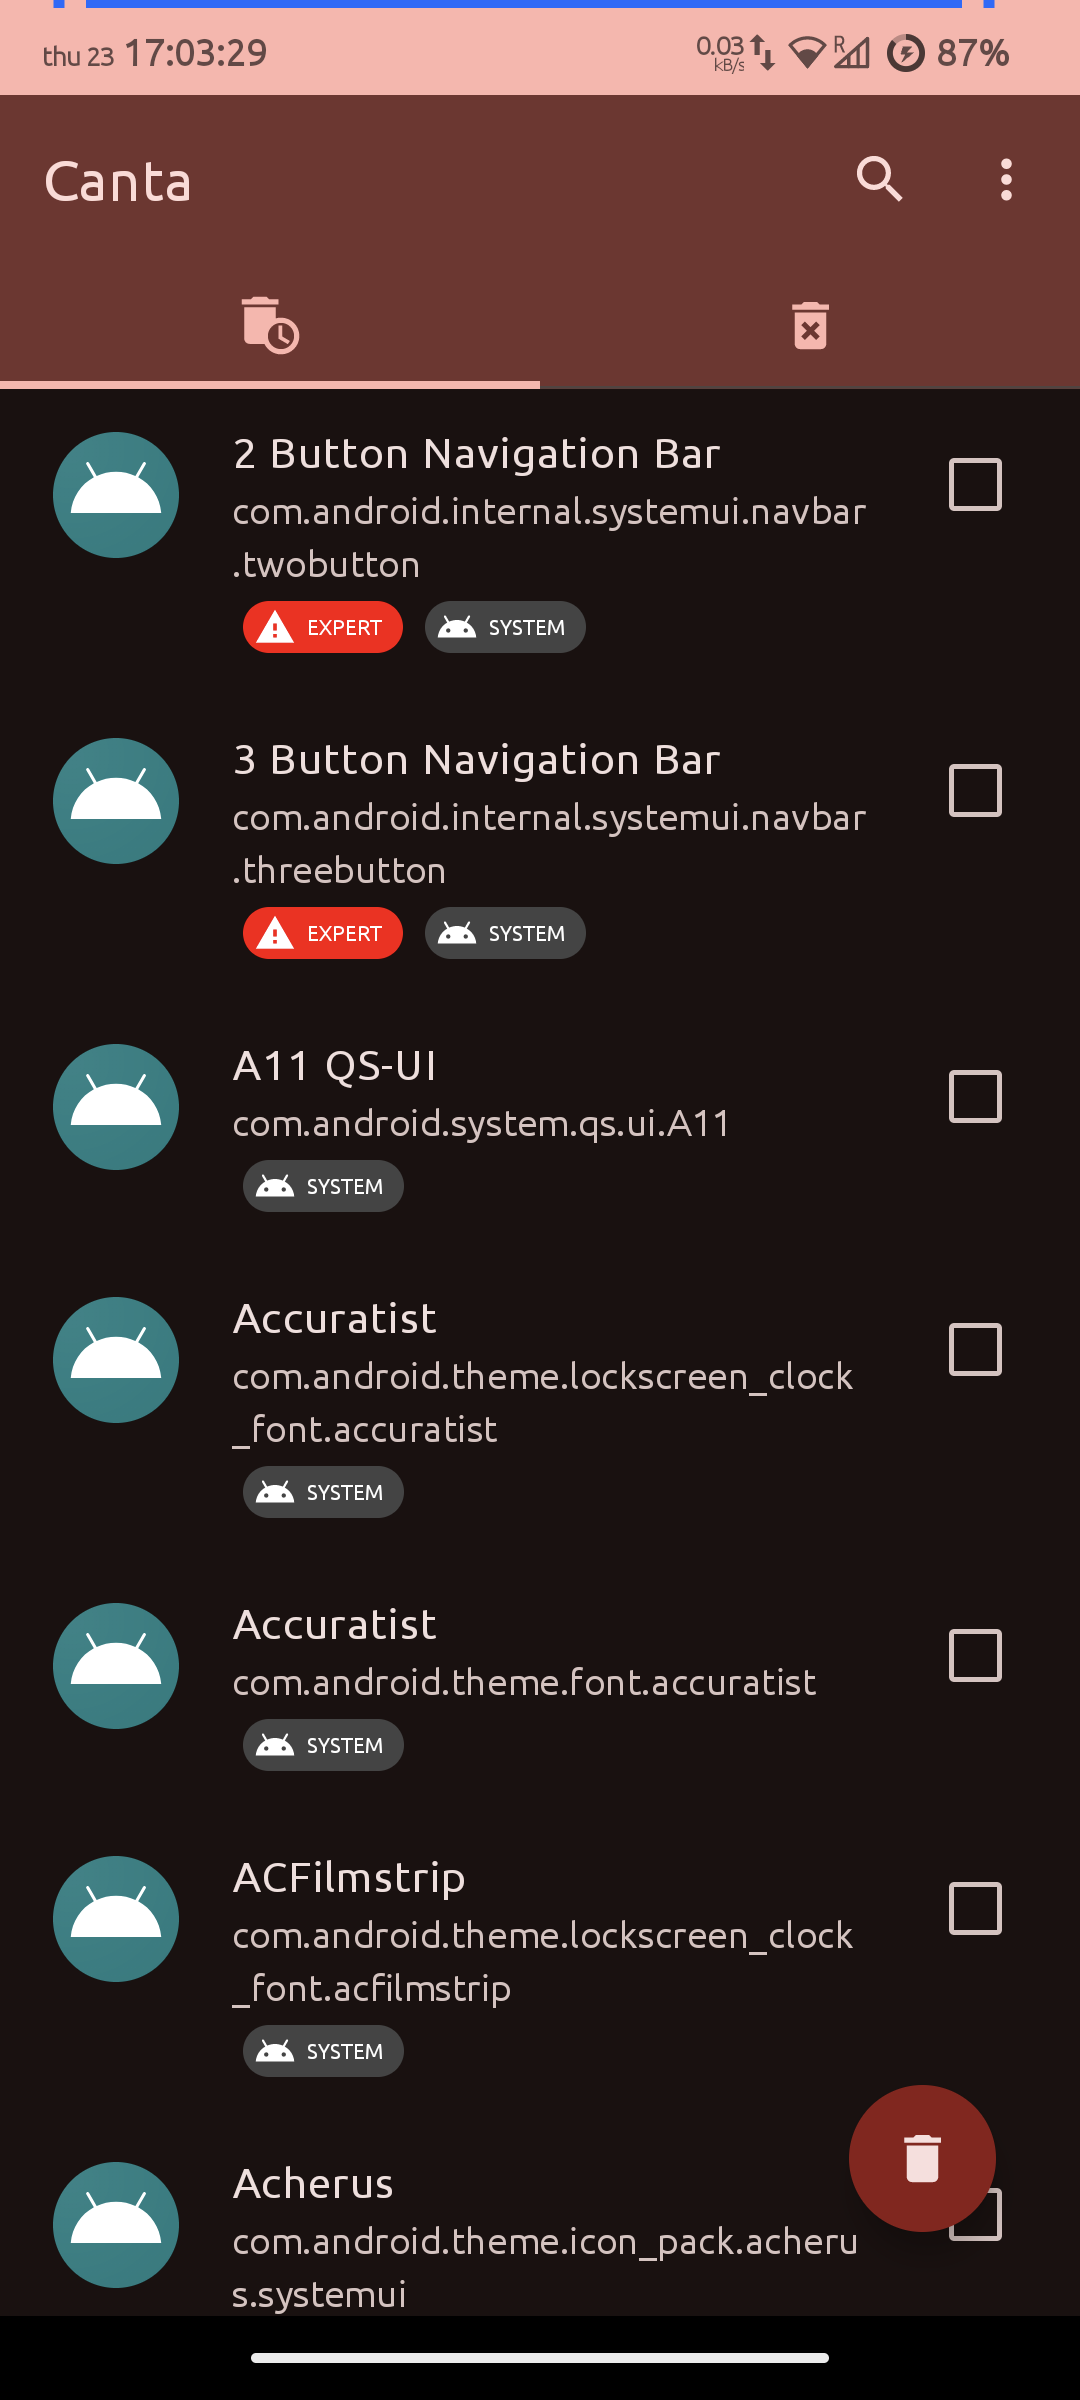
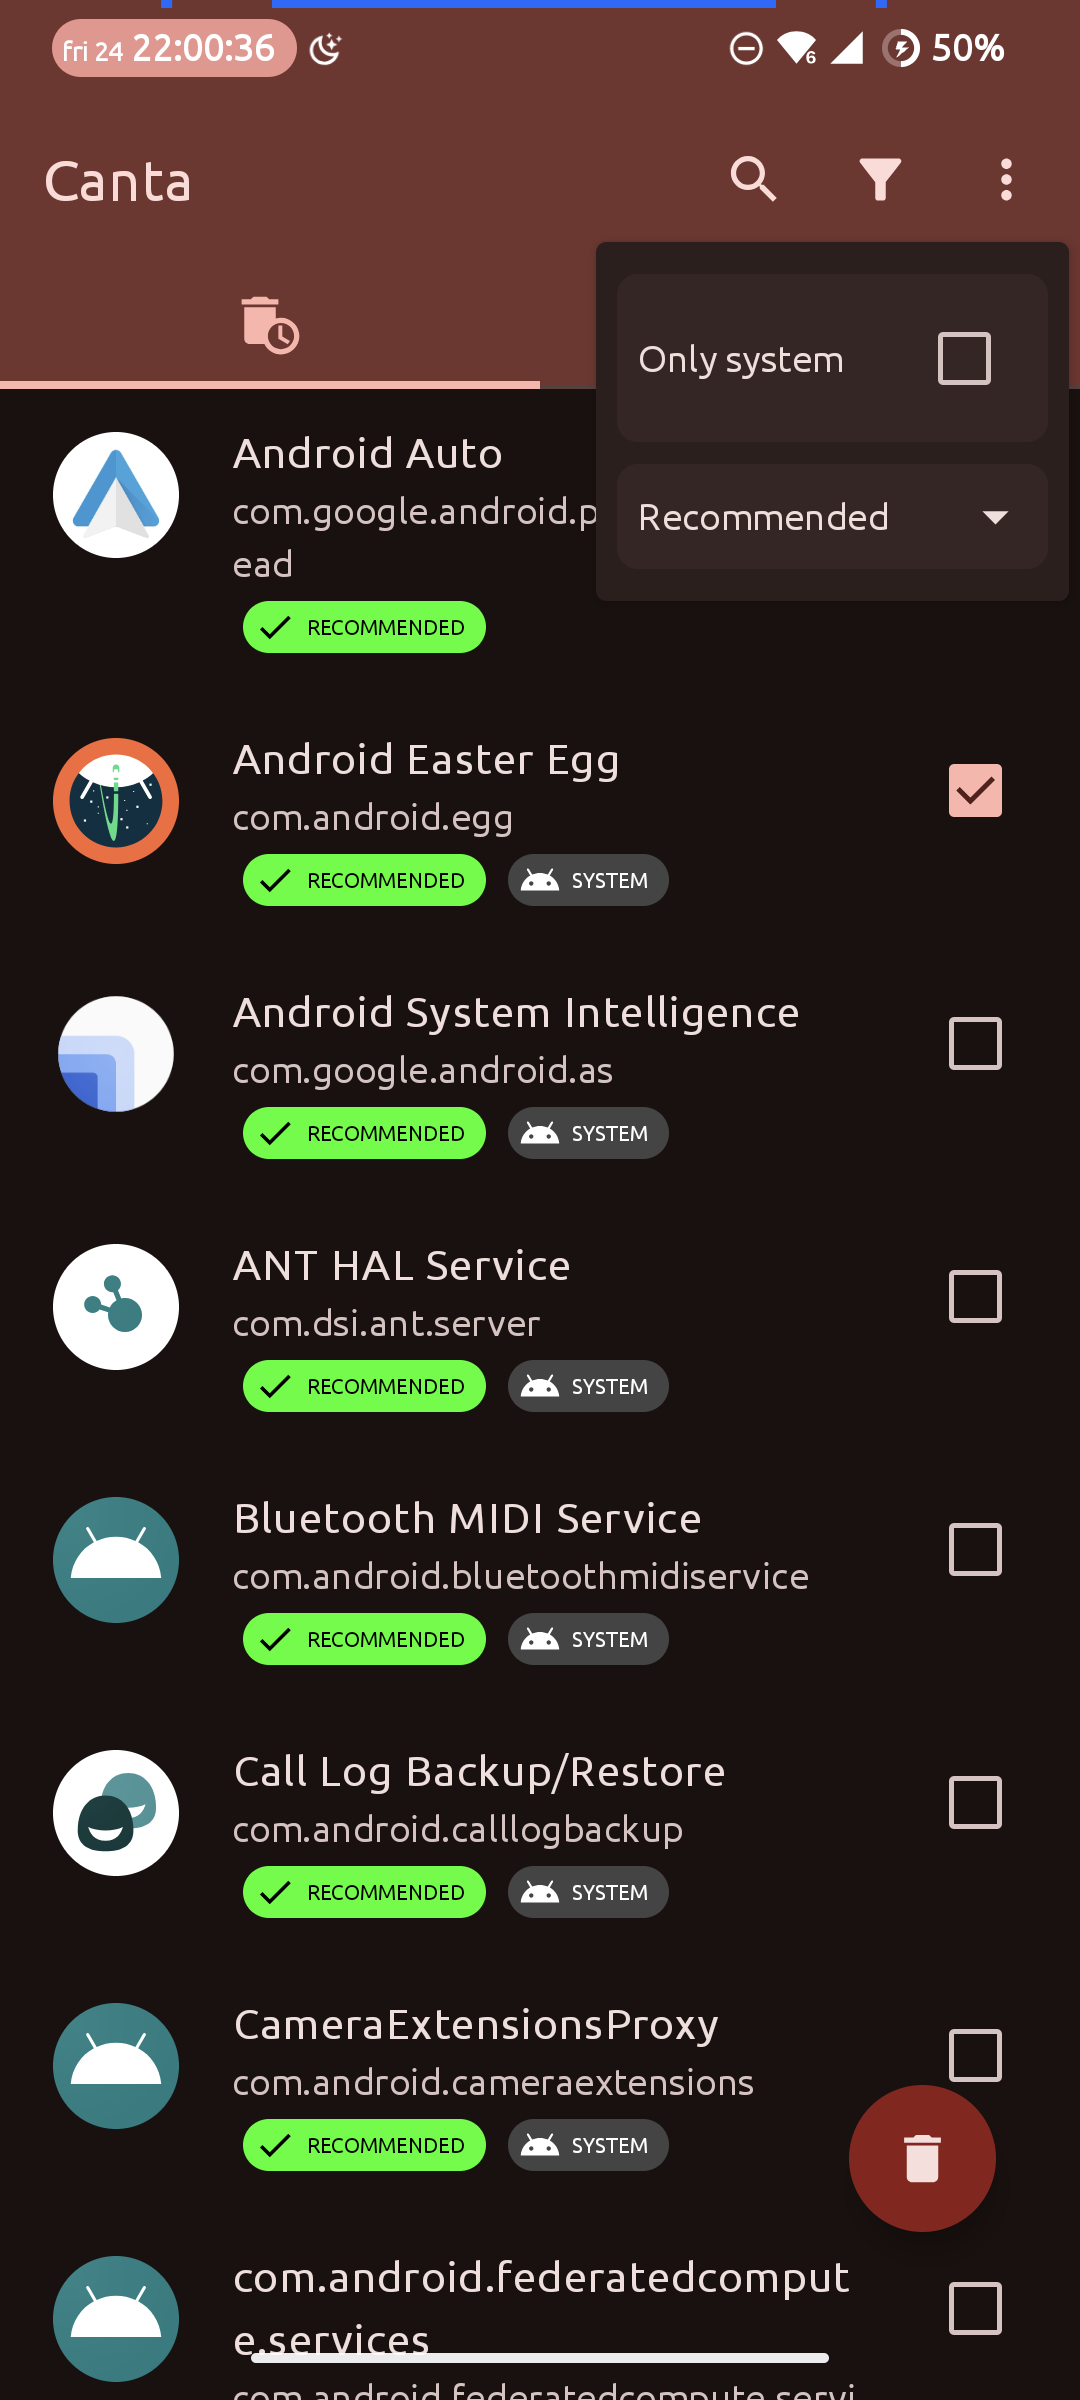
Update readme

diff --git a/README.md b/README.md
@@ -2,7 +2,7 @@
 
 ![](https://raw.githubusercontent.com/samolego/Canta/master/app/src/main/res/mipmap-xxxhdpi/ic_launcher.png)
 
-Uninstall any app without root!
+Uninstall any\* app without root!
 Powered by [Shizuku](https://shizuku.rikka.app/).
 
 
@@ -56,6 +56,8 @@ https://crowdin.com/project/canta
 | <img width="256" src="metadata/en-US/images/phoneScreenshots/screenshot-main.png"> | <img width="256" src="metadata/en-US/images/phoneScreenshots/screenshot-search.png"> | <img width="256" src="metadata/en-US/images/phoneScreenshots/screenshot-uninstall-dialog.png"> |
 |:---:|:---:|:---:|
 | Home | Search | Uninstall |
+| <img width="256" src="metadata/en-US/images/phoneScreenshots/screenshot-settings.png"> | <img width="256" src="metadata/en-US/images/phoneScreenshots/screenshot-about.png"> |  |
+| Settings | About |  |
 
 ## Thanks
 
